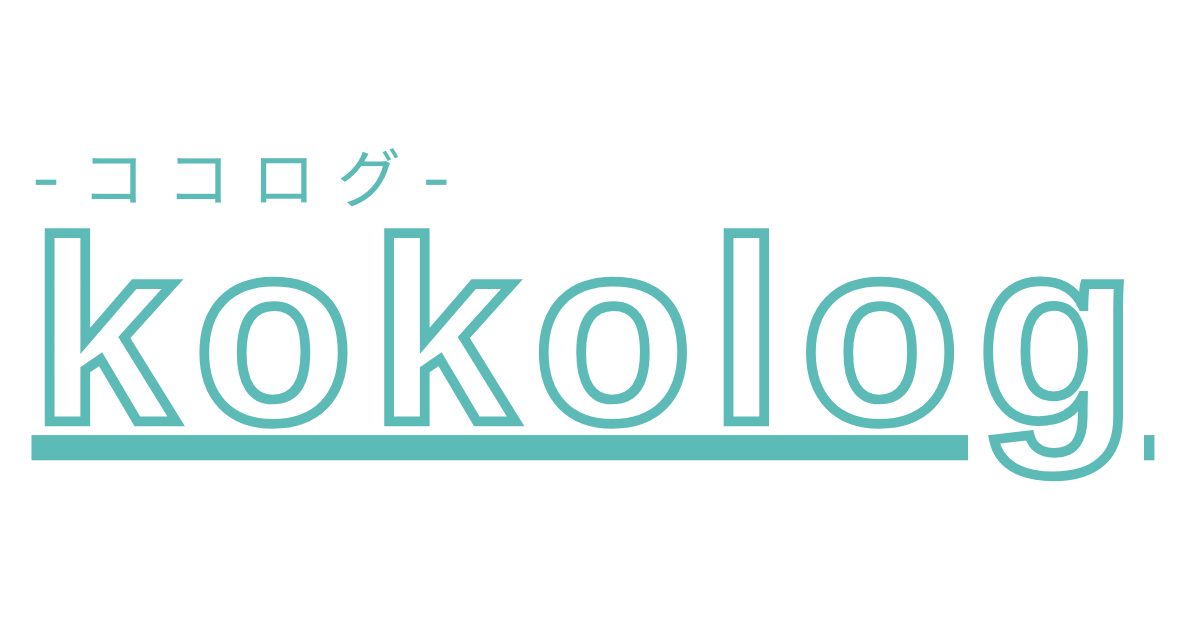
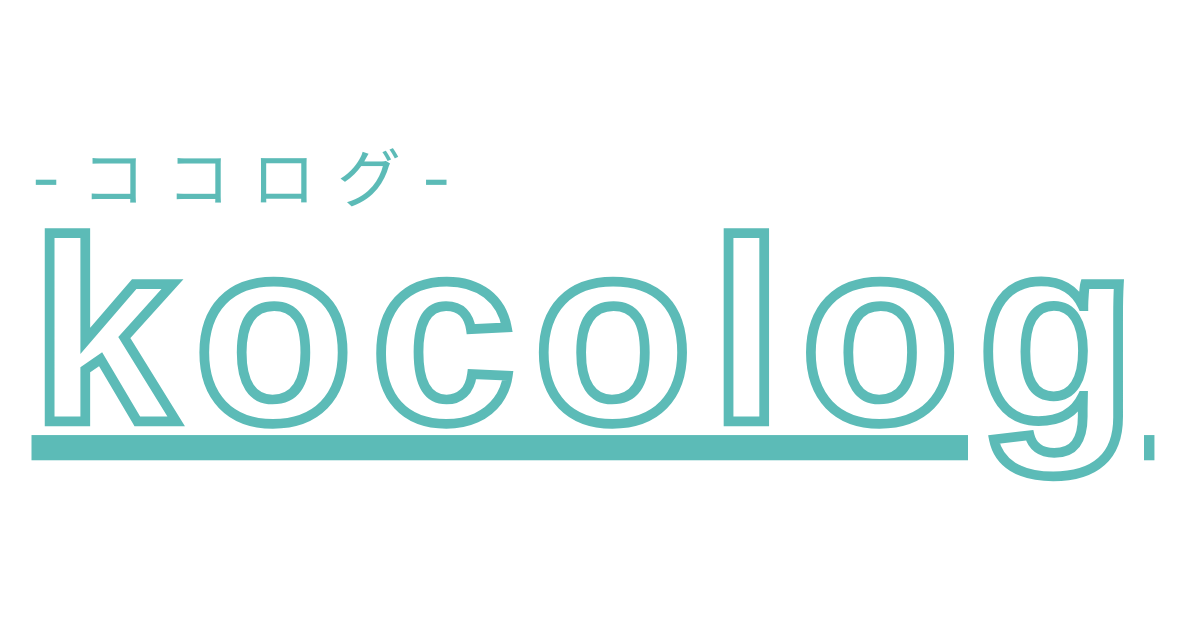
fix: アプリ名をkocologに変更

Changed region(s): [[0.3083, 0.3619, 0.4317, 0.6937]]

diff --git a/app/javascript/controllers/theme_toggle_controller.js b/app/javascript/controllers/theme_toggle_controller.js
@@ -5,7 +5,7 @@ export default class extends Controller {
 
   connect() {
     const saved = localStorage.getItem("koko-theme")
-    const fallback = document.documentElement.getAttribute("data-theme") || "kokolog"
+    const fallback = document.documentElement.getAttribute("data-theme") || "kocolog"
     const theme = saved || fallback
 
     document.documentElement.setAttribute("data-theme", theme)
@@ -16,8 +16,8 @@ export default class extends Controller {
 
   switch() {
     const newTheme = this.checkboxTarget.checked
-      ? "kokolog-dark"
-      : "kokolog"
+      ? "kocolog-dark"
+      : "kocolog"
 
     document.documentElement.setAttribute("data-theme", newTheme)
     localStorage.setItem("koko-theme", newTheme)

diff --git a/app/assets/stylesheets/application.tailwind.css b/app/assets/stylesheets/application.tailwind.css
@@ -7,11 +7,11 @@
 @import "./loading.css";
 @plugin "daisyui" {
   themes: all;
-  default: "kokolog-dark";
+  default: "kocolog-dark";
 }
 
 @plugin "daisyui/theme" {
-  name: "kokolog";
+  name: "kocolog";
   default: true;
   prefersdark: false;
   color-scheme: light;
@@ -62,7 +62,7 @@
 }
 
 @plugin "daisyui/theme" {
-  name: "kokolog-dark";
+  name: "kocolog-dark";
   default: false;
   prefersdark: true;
   color-scheme: dark;

diff --git a/config/environments/production.rb b/config/environments/production.rb
@@ -96,8 +96,8 @@ Rails.application.configure do
   config.active_record.attributes_for_inspect = [ :id ]
 
   # Enable DNS rebinding protection and other `Host` header attacks.
-  config.hosts << "kokolog-app.com"      # 独自ドメイン
-  config.hosts << "www.kokolog-app.com"  # サブドメイン
+  config.hosts << "kocolog.com"      # 独自ドメイン
+  config.hosts << "www.kocolog.com"  # サブドメイン
 
   # Skip DNS rebinding protection for the default health check endpoint.
   # config.host_authorization = { exclude: ->(request) { request.path == "/up" } }

diff --git a/README.md b/README.md
@@ -1,13 +1,13 @@
-# kokolog（こころぐ）
+# kocolog（こころぐ）
 
 ## サービス概要
 
-**kokolog は、行動と気分の相関に気づき、より良い一日を過ごすための内省支援アプリです。**
+**kocolog は、行動と気分の相関に気づき、より良い一日を過ごすための内省支援アプリです。**
 
 人は日々さまざまな行動をしていますが、  
 「その行動が自分の調子にどう影響しているのか」まで意識できている人は多くありません。
 
-kokolog では、行動と気分をゆるやかに記録し、  
+kocolog では、行動と気分をゆるやかに記録し、  
 振り返ることで **自分の調子を整えるヒントに気づける状態** を目指しています。
 
 行動を管理したり、達成を競うアプリではありません。  
@@ -22,7 +22,7 @@ kokolog では、行動と気分をゆるやかに記録し、
 - 調子が良かった日も、理由を振り返らずに終わってしまう
 - 安定してパフォーマンスを出したいが、方法が見えない
 
-kokolog は  
+kocolog は  
 **行動と気分の関係を可視化し、客観的に気づける状態を作ること** で、  
 これらの課題を解決しようとしています。
 
@@ -45,7 +45,7 @@ kokolog は
 一方で、調子が悪い日には  
 「自分がダメだからだ」と考えてしまいがちでした。
 
-kokolog は、  
+kocolog は、  
 こうした体験から生まれた
 
 - 行動を押し付けない
@@ -56,7 +56,7 @@ kokolog は、
 
 ---
 
-## kokolog が提供したい体験
+## kocolog が提供したい体験
 
 - **調子が良くなる行動に気づく**  
   → 無理なく、その行動を続けられるようになる
@@ -116,15 +116,15 @@ kokolog は、
 ---
 
 ### 画面遷移図
-Figma：https://www.figma.com/design/QTo6iqzroFB655HoUNJTrc/kokolog?node-id=0-1&t=SEncSvWt1HWWR0MB-1
+Figma：https://www.figma.com/design/QTo6iqzroFB655HoUNJTrc/kocolog?node-id=0-1&t=SEncSvWt1HWWR0MB-1
 
 ---
 
 ### ER図
 
-![ER図](./kokolog.svg)
+![ER図](./kocolog.svg)
 
-[▶ dbdiagramで開く](https://dbdiagram.io/d/kokolog-684047aa76955641c29f01ca)
+[▶ dbdiagramで開く](https://dbdiagram.io/d/kocolog-684047aa76955641c29f01ca)
 ---
 
 ## 🌟 キャッチコピー
